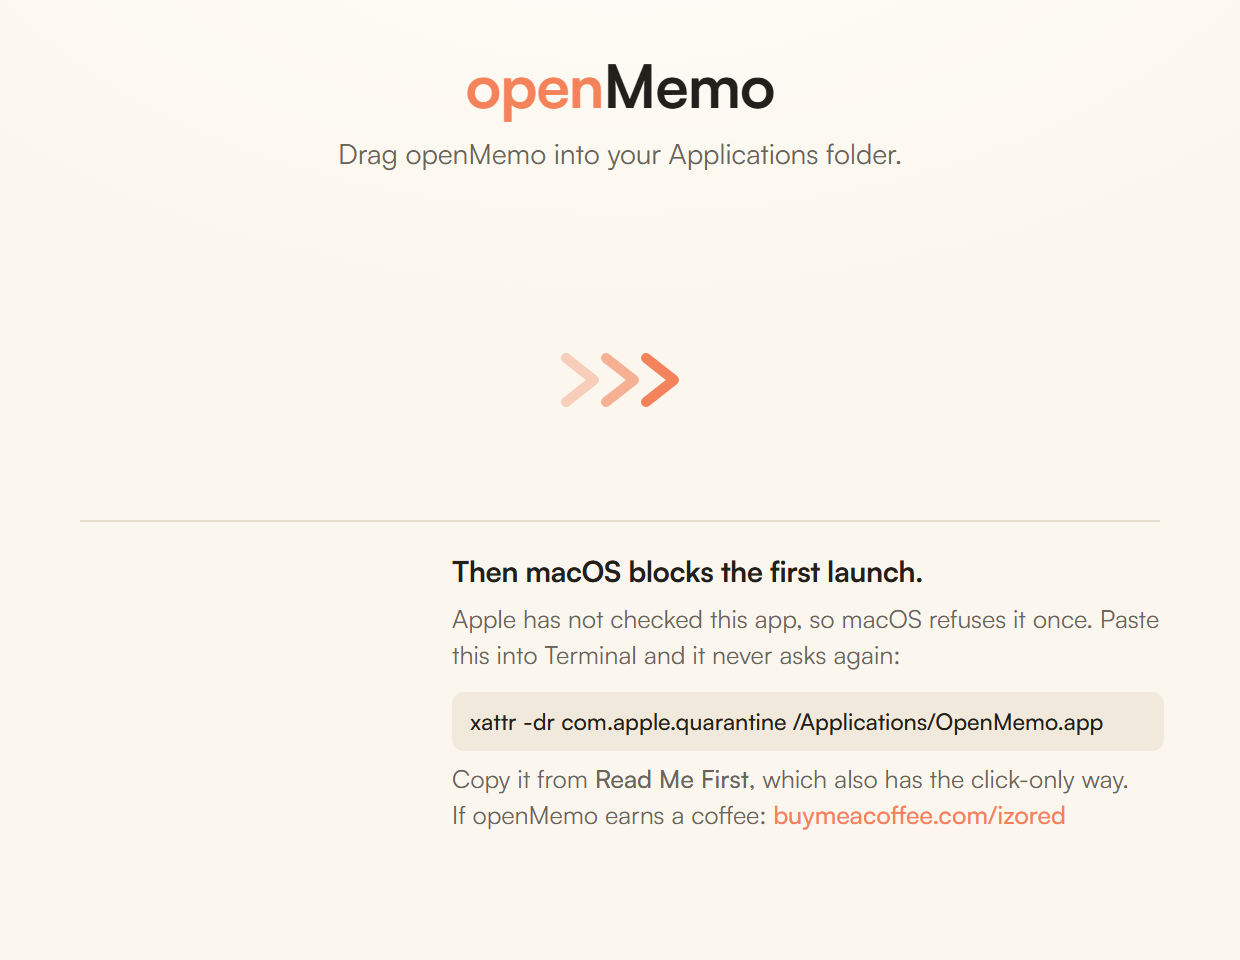
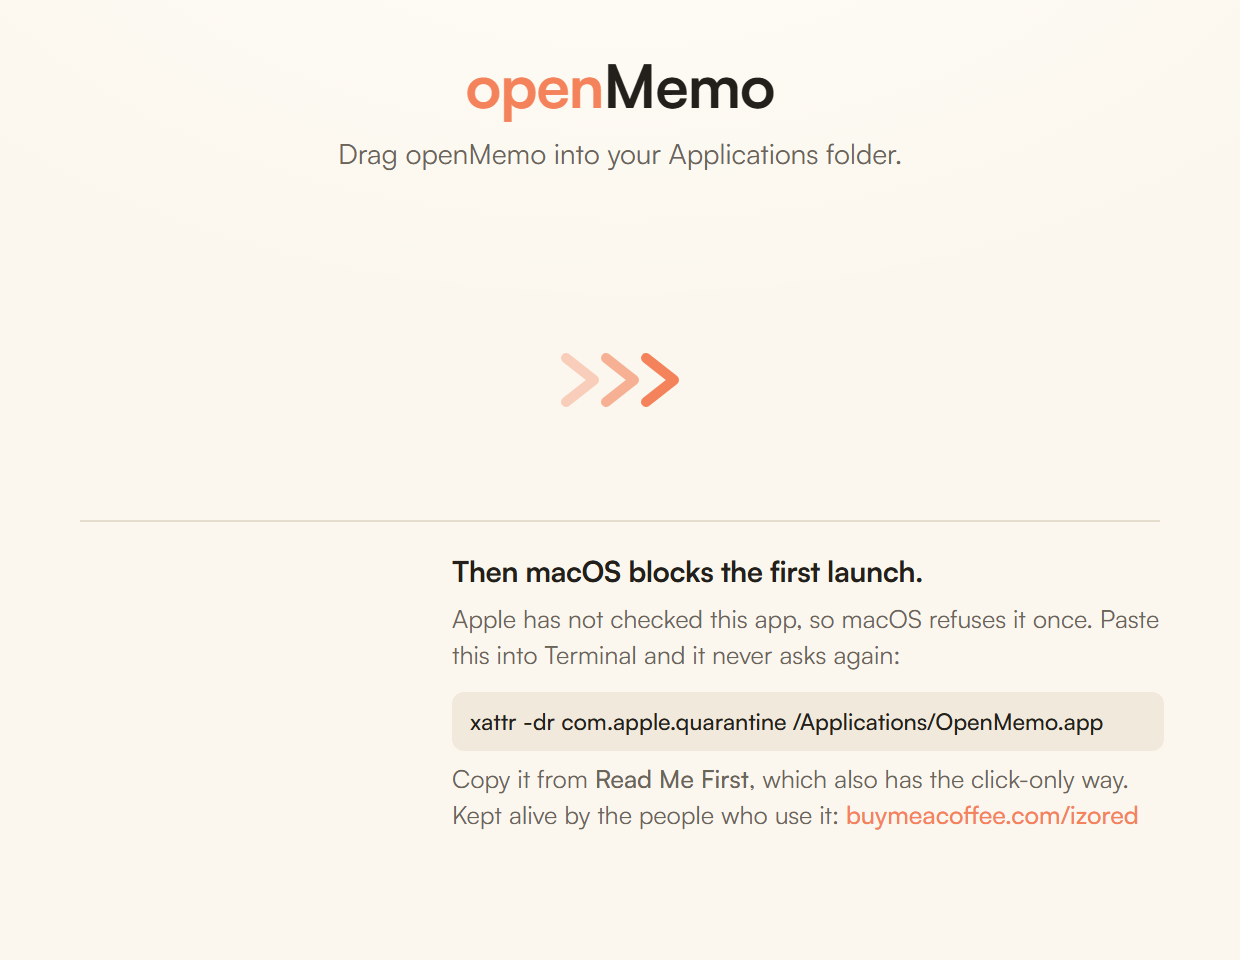
style(macos): final wording for the dmg support line
"Kept alive by the people who use it" says what the link is for without asking
for anything. Ink still stops at row 414.

Changed region(s): [[0.3677, 0.8438, 0.9194, 0.875]]

diff --git a/macOS/buildResources/dmg/background.html b/macOS/buildResources/dmg/background.html
@@ -83,5 +83,5 @@
   <h2>Then macOS blocks the first launch.</h2>
   <p>Apple has not checked this app, so macOS refuses it once. Paste this into Terminal and it never asks again:</p>
   <div class="cmd">xattr -dr com.apple.quarantine /Applications/OpenMemo.app</div>
-  <p class="cmd-label">Copy it from <b>Read Me First</b>, which also has the click-only way.<br />If openMemo earns a coffee: <i>buymeacoffee.com/izored</i></p>
+  <p class="cmd-label">Copy it from <b>Read Me First</b>, which also has the click-only way.<br />Kept alive by the people who use it: <i>buymeacoffee.com/izored</i></p>
 </div>
